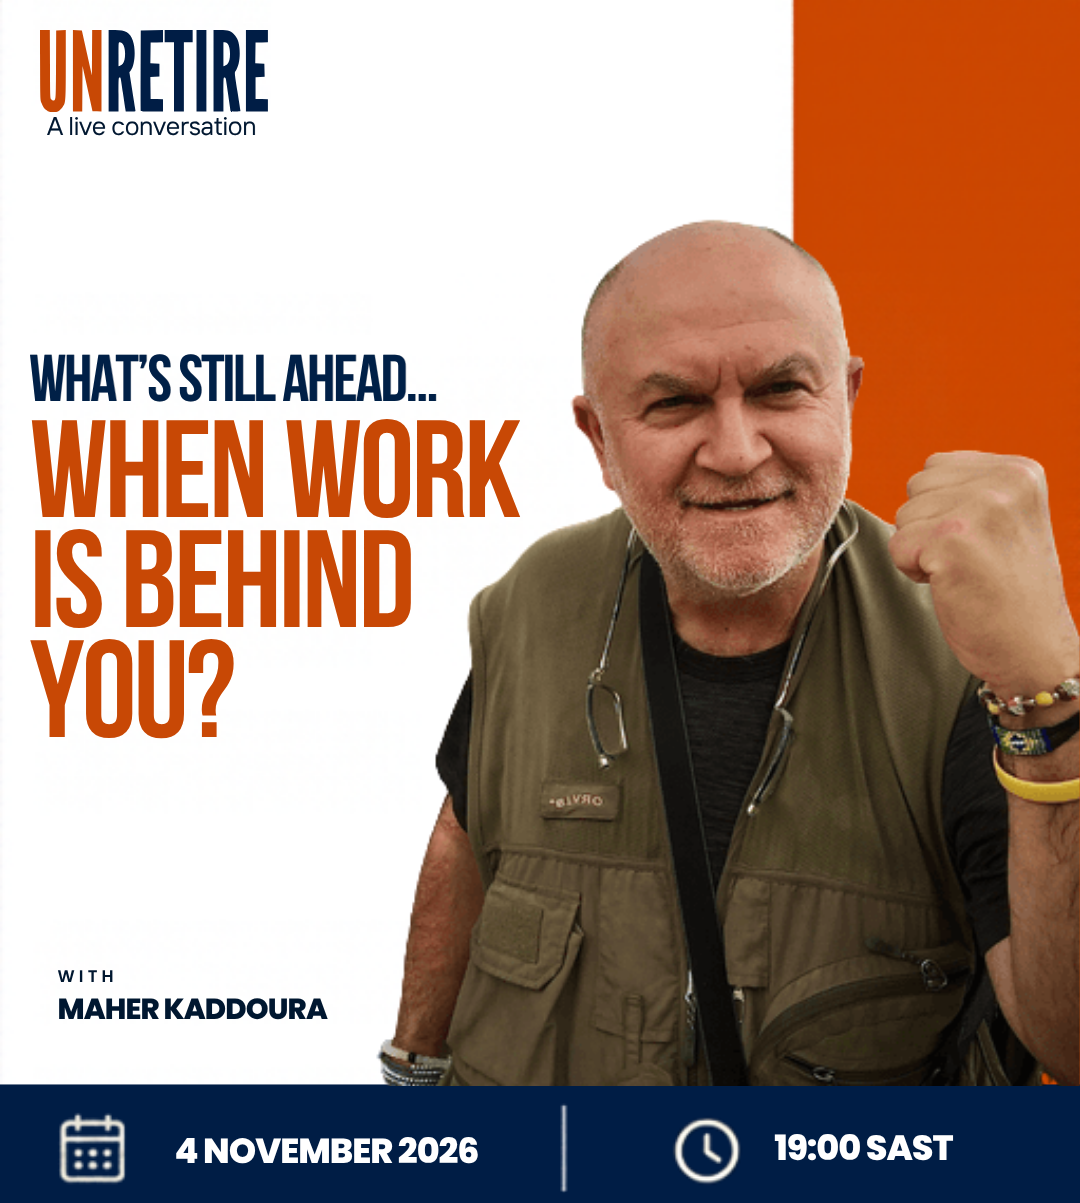
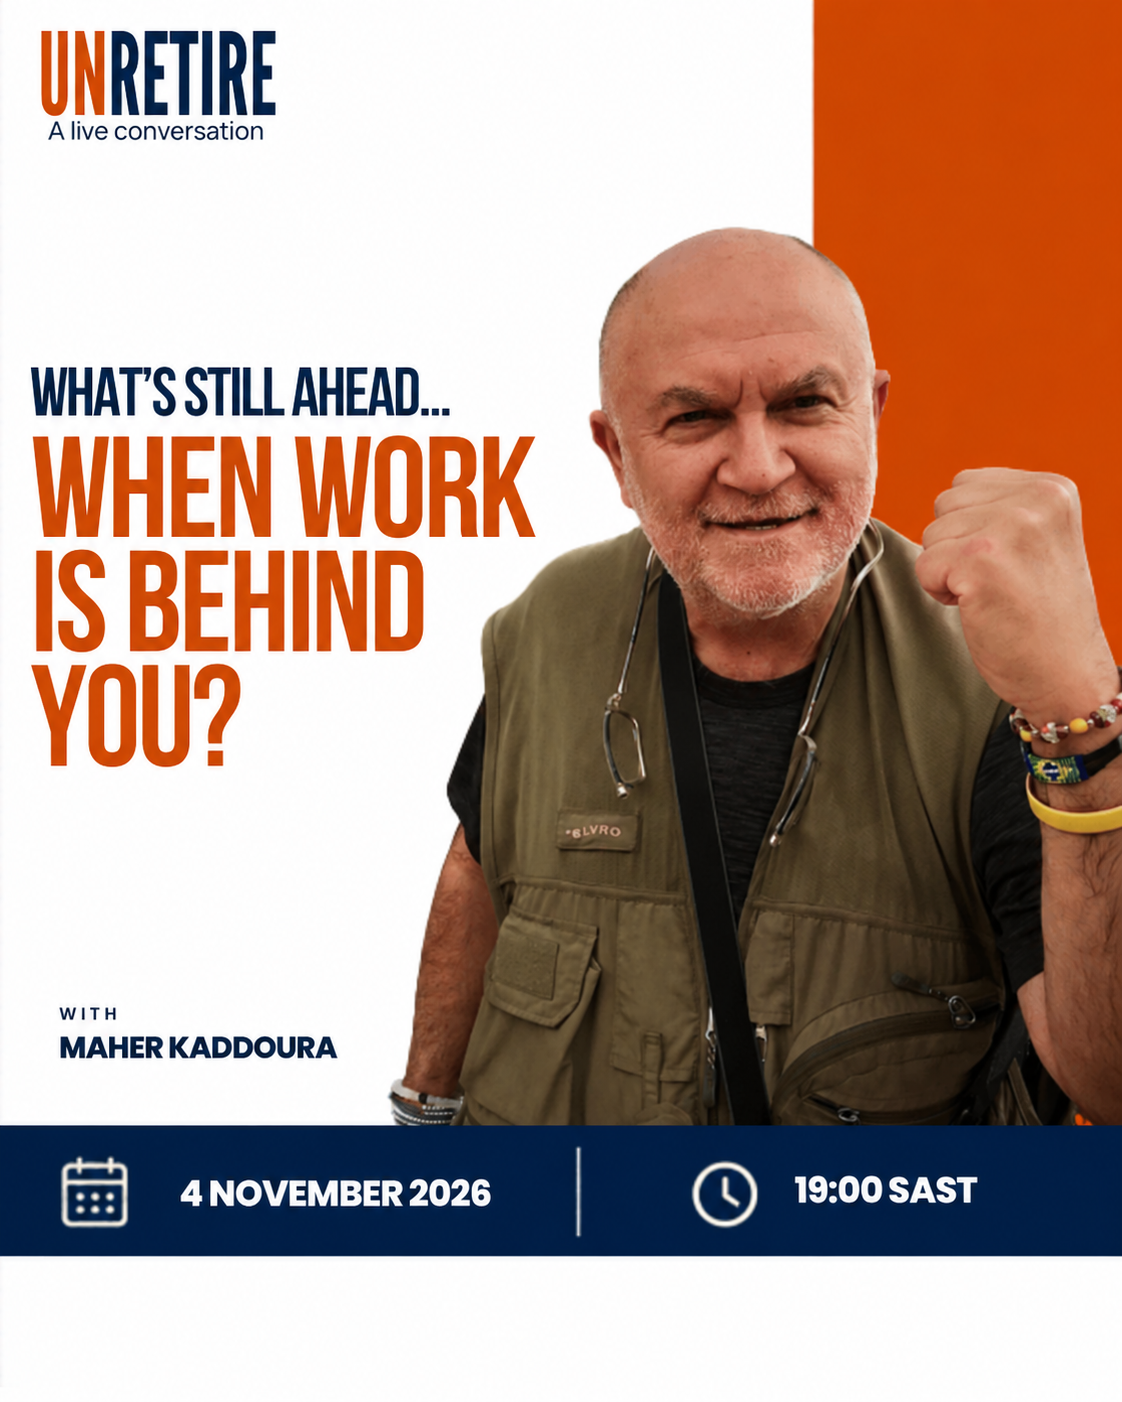
feat(blog): add "The Second Career Nobody Tells You About" article; update webinar image

diff --git a/src/app/blog/articlesData.ts b/src/app/blog/articlesData.ts
@@ -18,6 +18,101 @@ export type Article = {
 
 export const articles: Article[] = [
   {
+    slug: "second-career-after-retirement",
+    title: "The Second Career Nobody Tells You About",
+    metaTitle: "The Second Career Nobody Tells You About | (Un)Retire",
+    metaDescription:
+      "Many retirees find they never disliked work, only its conditions. How to shape a second career on your own terms, built around what you enjoy.",
+    excerpt:
+      "Many retirees find they never disliked work, only its conditions. How to shape a second career on your own terms, built around what you enjoy.",
+    keyword: "second career",
+    category: "Purpose",
+    readingMinutes: 5,
+    body: [
+      {
+        type: "p",
+        html: "Retirement is supposed to be the end of work. For a growing number of people, it turns out to be the start of a different kind.",
+      },
+      {
+        type: "p",
+        html: "Not the old job. Not the commute, the targets or the meetings that could have been an email.",
+      },
+      {
+        type: "p",
+        html: "Something smaller, freer and far more your own.",
+      },
+      {
+        type: "h2",
+        text: "Work on Your Own Terms",
+      },
+      {
+        type: "p",
+        html: "For most of your career, work came as a package. Fixed hours, a fixed place, a fixed role, and a boss deciding what mattered.",
+      },
+      {
+        type: "p",
+        html: "Retirement removes the package. What many people discover is that they never disliked working. They disliked the conditions.",
+      },
+      {
+        type: "p",
+        html: "Take those away, and work can look surprisingly appealing again. A few mornings a week consulting in your old field. A small business built around something you enjoy. Teaching, tutoring or advising. Paid work, part-time work or simply useful work, chosen rather than required.",
+      },
+      {
+        type: "h2",
+        text: "Why It Matters More Than the Money",
+      },
+      {
+        type: "p",
+        html: "Some people return to work for the income, and that is perfectly sensible. But many describe benefits that have little to do with money.",
+      },
+      {
+        type: "p",
+        html: "A reason to get dressed and leave the house. Conversations with people of different ages. The quiet satisfaction of solving a problem and being thanked for it. A sense that your experience still counts for something.",
+      },
+      {
+        type: "p",
+        html: "Those are the very things retirement can quietly take away. A second career, on your own terms, can give them back.",
+      },
+      {
+        type: "p",
+        html: "What did you enjoy about work, once you strip away everything you didn't?",
+      },
+      {
+        type: "h2",
+        text: "Three Ways to Shape a Second Career",
+      },
+      {
+        type: "p",
+        html: "<strong>One:</strong> Start with what you enjoyed, not what you were paid for. Your job title may have been finance manager, but perhaps the part you loved was mentoring young staff. Build around the enjoyable part.",
+      },
+      {
+        type: "p",
+        html: "<strong>Two:</strong> Set the boundaries first. Decide how many days, how many hours and how much travel suits you before you say yes to anything. Freedom is the point, so protect it from the start.",
+      },
+      {
+        type: "p",
+        html: "<strong>Three:</strong> Test it small. Take on one project, one client or one short contract. See how it fits your energy and your week before you expand.",
+      },
+      {
+        type: "h2",
+        text: "A Portfolio, Not a Position",
+      },
+      {
+        type: "p",
+        html: "The most contented second-career retirees rarely have a single job. They have a portfolio. A little paid work, some volunteering, a creative project, time for family and plenty of time for rest.",
+      },
+      {
+        type: "p",
+        html: "Each piece is chosen. Each piece can be adjusted. And together they create a week with variety, purpose and room to breathe.",
+      },
+      {
+        type: "p",
+        html: "That is what unretiring really means. Not going back to the grind, but going forward into work that fits the person you are now.",
+      },
+    ],
+    cta: "<strong>Ready to design work that fits your next chapter? </strong>The (Un)Retire book and Life Design Workbook help you shape a week that blends purpose, freedom and the work you actually enjoy.",
+  },
+  {
     slug: "why-retirement-feels-like-drift",
     title: "Why Retirement Feels Like Drift (And What Quietly Causes It)",
     metaTitle: "Why Retirement Feels Like Drift (And What Quietly Causes It)",
